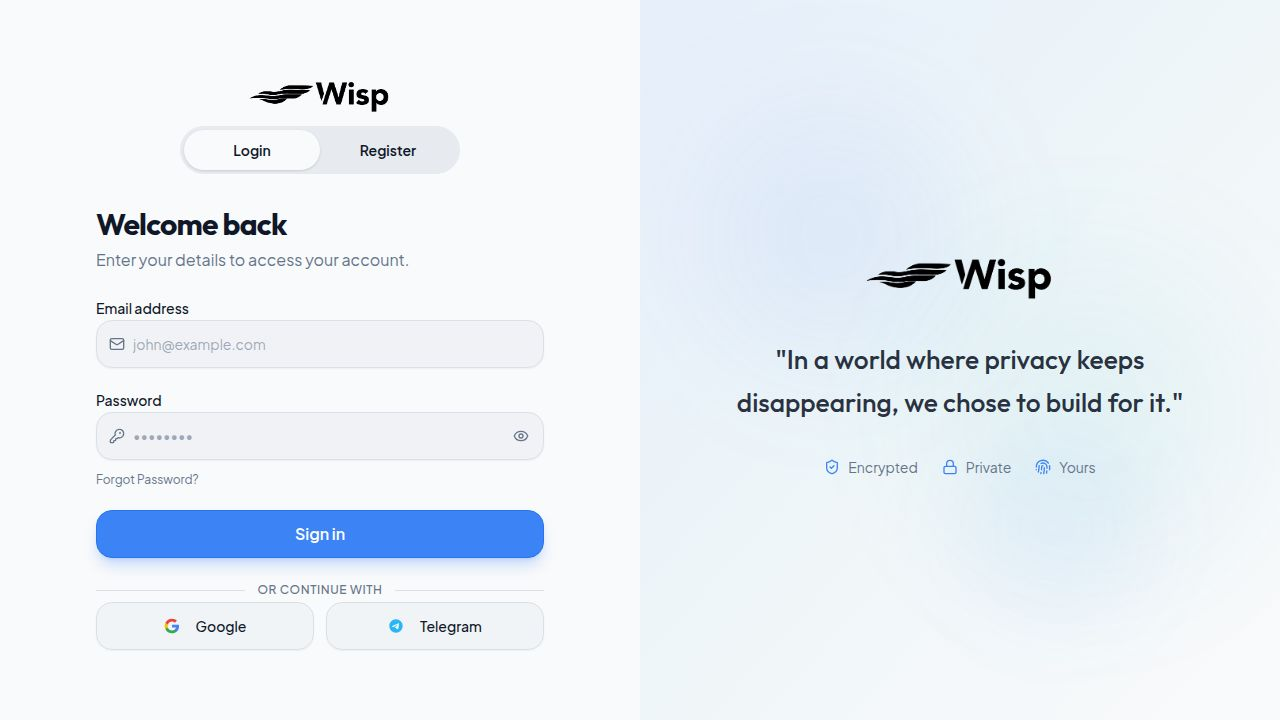
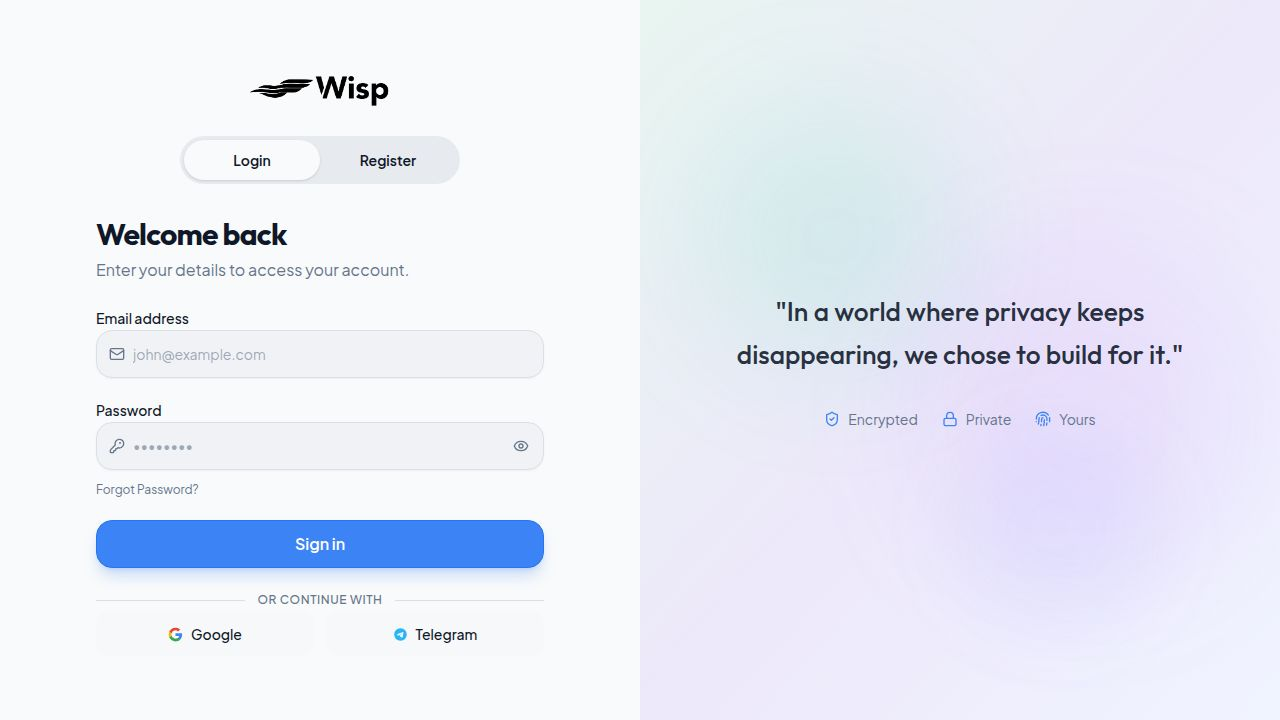
Task #11: Auth page polish & button redesign
Changes to artifacts/card-manager/src/pages/auth.tsx:

1. Restyled social login buttons (Google, Telegram):
   - Replaced shadcn Button components with native <button> elements
   - Flat style: no border (border-0), #F6F8FA bg light / #151520 bg dark
   - Height: 44px, border-radius: 12px, icon size: 15x15
   - Text: font-weight 400, color #5F6276 light / #9CA3AF dark
   - Hover: #dddfe1 light / #1f1f30 dark
   - Transition: background-color 0.15s cubic-bezier(0.4,0,0.2,1)

2. Fixed logo-to-switcher spacing:
   - Changed logo container from mb-2 to mb-6 for adequate breathing room

3. Polished pill switcher:
   - Active tab text uses --foreground, inactive uses --muted-foreground
   - Added explicit box-shadow on the sliding pill indicator

4. Normalized form rhythm between Login and Register forms:
   - Register form now uses space-y-4 md:space-y-5 (matching Login)
   - Removed extra mt-2 from Register submit button for consistency

No deviations from the task spec. No changes to form validation,
API calls, brand panel, or OAuth functionality.

Replit-Task-Id: ef44acc8-6bb3-4039-8ff6-292be5cf01f6

diff --git a/artifacts/card-manager/src/pages/auth.tsx b/artifacts/card-manager/src/pages/auth.tsx
@@ -61,24 +61,24 @@ function OrDivider() {
 function SocialLoginButtons() {
   return (
     <div className="grid grid-cols-2 gap-3">
-      <Button
+      <button
         type="button"
-        variant="outline"
-        className="h-12 rounded-xl bg-muted/40 border-border hover:bg-muted/70 transition-colors"
         onClick={() => {}}
+        className="inline-flex items-center justify-center gap-2 h-[44px] rounded-[12px] border-0 bg-[#F6F8FA] dark:bg-[#151520] text-[#5F6276] dark:text-[#9CA3AF] font-normal text-sm cursor-pointer outline-none focus-visible:ring-2 focus-visible:ring-primary/50 hover:bg-[#dddfe1] dark:hover:bg-[#1f1f30]"
+        style={{ transition: "background-color 0.15s cubic-bezier(0.4,0,0.2,1)" }}
       >
-        <GoogleIcon className="w-5 h-5 mr-2" />
-        <span className="font-medium">Google</span>
-      </Button>
-      <Button
+        <GoogleIcon className="w-[15px] h-[15px]" />
+        Google
+      </button>
+      <button
         type="button"
-        variant="outline"
-        className="h-12 rounded-xl bg-muted/40 border-border hover:bg-muted/70 transition-colors"
         onClick={() => {}}
+        className="inline-flex items-center justify-center gap-2 h-[44px] rounded-[12px] border-0 bg-[#F6F8FA] dark:bg-[#151520] text-[#5F6276] dark:text-[#9CA3AF] font-normal text-sm cursor-pointer outline-none focus-visible:ring-2 focus-visible:ring-primary/50 hover:bg-[#dddfe1] dark:hover:bg-[#1f1f30]"
+        style={{ transition: "background-color 0.15s cubic-bezier(0.4,0,0.2,1)" }}
       >
-        <TelegramIcon className="w-5 h-5 mr-2" />
-        <span className="font-medium">Telegram</span>
-      </Button>
+        <TelegramIcon className="w-[15px] h-[15px]" />
+        Telegram
+      </button>
     </div>
   );
 }
@@ -89,24 +89,25 @@ function PillSwitcher({ activeTab, onTabChange }: { activeTab: AuthTab; onTabCha
       <button
         type="button"
         onClick={() => onTabChange("login")}
-        className="relative z-10 flex-1 py-2.5 text-sm font-semibold text-foreground transition-colors cursor-pointer"
+        className={`relative z-10 flex-1 py-2.5 text-sm font-semibold transition-colors cursor-pointer ${activeTab === "login" ? "text-foreground" : "text-muted-foreground"}`}
       >
         Login
       </button>
       <button
         type="button"
         onClick={() => onTabChange("register")}
-        className="relative z-10 flex-1 py-2.5 text-sm font-semibold text-foreground transition-colors cursor-pointer"
+        className={`relative z-10 flex-1 py-2.5 text-sm font-semibold transition-colors cursor-pointer ${activeTab === "register" ? "text-foreground" : "text-muted-foreground"}`}
       >
         Register
       </button>
       <motion.div
         layout
         transition={{ type: "spring", stiffness: 400, damping: 30 }}
-        className="absolute top-1 bottom-1 rounded-full bg-background shadow-sm"
+        className="absolute top-1 bottom-1 rounded-full bg-background"
         style={{
           width: "calc(50% - 4px)",
           left: activeTab === "login" ? 4 : "50%",
+          boxShadow: "0 1px 3px 0 rgb(0 0 0 / 0.1), 0 1px 2px -1px rgb(0 0 0 / 0.1)",
         }}
       />
     </div>
@@ -279,7 +280,7 @@ function RegisterForm() {
       </div>
 
       <Form {...form}>
-        <form onSubmit={form.handleSubmit(onSubmit)} className="space-y-4">
+        <form onSubmit={form.handleSubmit(onSubmit)} className="space-y-4 md:space-y-5">
           <FormField
             control={form.control}
             name="email"
@@ -336,7 +337,7 @@ function RegisterForm() {
 
           <Button
             type="submit"
-            className="w-full h-12 mt-2 text-base font-semibold bg-primary hover:bg-primary/90 text-primary-foreground shadow-lg shadow-primary/25 rounded-xl"
+            className="w-full h-12 text-base font-semibold bg-primary hover:bg-primary/90 text-primary-foreground shadow-lg shadow-primary/25 rounded-xl"
             disabled={registerMutation.isPending}
           >
             {registerMutation.isPending ? <Loader2 className="w-5 h-5 animate-spin" /> : "Create account"}
@@ -392,7 +393,7 @@ export default function AuthPage({ initialTab = "login" }: { initialTab?: AuthTa
     <div className="min-h-screen w-full flex bg-background text-foreground">
       <div className="w-full lg:w-1/2 flex items-center justify-center p-6 sm:p-8 md:p-12 relative z-10">
         <div className="w-full max-w-md space-y-6 md:space-y-8">
-          <div className="flex justify-center mb-2">
+          <div className="flex justify-center mb-6">
             <img
               src={`${import.meta.env.BASE_URL}images/wisp-logo-design-white_1773484134261.png`}
               alt="Wisp"
